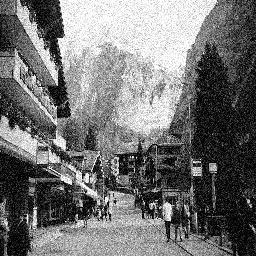
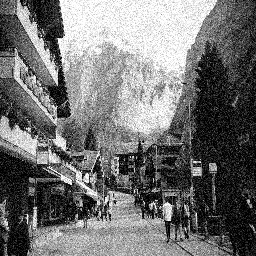
poison noise duzenlendi

diff --git a/odev-6.py b/odev-6.py
@@ -30,10 +30,12 @@ def add_salt_pepper_noise(image, prob=0.05):
 
 def add_poisson_noise(image):
     """Poisson gürültüsü ekle"""
-    vals = len(np.unique(image))
-    vals = 2 ** np.ceil(np.log2(vals))
-    noisy = np.random.poisson(image * vals) / float(vals)
-    return np.clip(noisy*255, 0, 255).astype(np.uint8)
+    # Görüntüyü [0,1] aralığına normalize et
+    norm_image = image.astype(float) / 255.0
+    # Poisson gürültüsü ekle
+    noisy = np.random.poisson(norm_image * 50) / 50.0
+    # [0,255] aralığına geri dönüştür
+    return np.clip(noisy * 255, 0, 255).astype(np.uint8)
 
 # Gürültülü görüntüleri oluştur
 gaussian_noisy = add_gaussian_noise(image)
